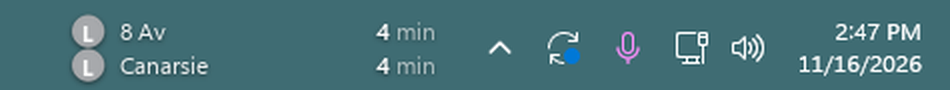
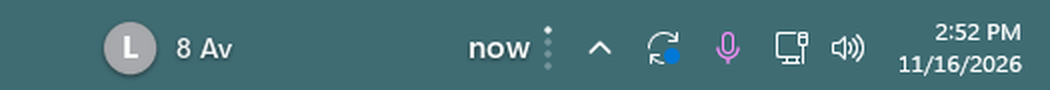
Countdown theme, settings window, centred bullet letters
- New default Countdown theme: one train at a time at full size, sliding
  to the next every few seconds, with a small pager. Click for the next
  train; pointing at it pauses the cycle.
- Settings window with every option: station, direction, theme,
  background, trains to cycle, time per train, slide animation, start
  with Windows, position and refresh.
- Bullet letters are centred on their real outline.
- More room inside and between Minimal capsules.

diff --git a/README.md b/README.md
@@ -2,9 +2,9 @@
 
 Live NYC subway arrivals on your Windows taskbar, set to look like part of Windows.
 
-![Trainbar on the Windows 11 taskbar, showing the next L trains at Bedford Av](docs/screenshot.png)
+![Trainbar on the Windows 11 taskbar, showing the next L train at Bedford Av](docs/screenshot.png)
 
-Pick your station once. Trainbar shows the next train in each direction, or the next two in one direction, with the line's bullet, where the train is headed, and how many minutes away it is. When a train is pulling in, the minutes read `now`.
+Pick your station once. Trainbar shows one train at a time at full size: the line's bullet, where the train is headed, and how many minutes away it is. Every few seconds the next train slides up into place, and small dots show where you are in the list. When a train is pulling in, the minutes read `now`.
 
 The background is transparent, so it works on the standard taskbar and on see-through taskbars from tools such as TranslucentTB. Text follows the Windows light or dark setting.
 
@@ -14,13 +14,21 @@ Right-click and open **Theme** to switch.
 
 | Theme | Look |
 | --- | --- |
-| Clock | Two lines in Segoe UI Variable, sized like the taskbar clock. The default. |
+| Countdown | One train at a time, large, sliding to the next. The default. |
+| Clock | Two lines in Segoe UI Variable, sized like the taskbar clock. |
 | LED | A dot-matrix sign with glowing dots and no box behind it. |
 | Minimal | One small capsule per train with the line and the minutes. |
 
-**Show background** adds a faint rounded backdrop behind any theme. Without it, the backdrop appears only when you point at the widget.
-
 Express trains (such as the 6 and 7 express) get a diamond instead of a circle.
+
+## Settings
+
+Right-click and select **Settings…** for every option in one window. Changes apply at once.
+
+- **Station** and **direction**. The direction buttons use the MTA's own labels for that station, such as "Manhattan" and "Canarsie".
+- **Theme** and **Show background**. Without the background, a faint backdrop appears only when you point at the widget.
+- **Countdown**: how many trains to cycle through (1 to 8), how long each one stays (2 to 30 seconds), and whether they slide. The slide also follows the Windows animation setting.
+- **Start with Windows**, **Reset position** and **Refresh now**.
 
 ## Install
 
@@ -33,19 +41,18 @@ pythonw trainbar.pyw
 
 `pythonw` runs it without a console window. On first launch a search box opens so you can choose your station.
 
-To start it with Windows, right-click the widget and tick **Start with Windows**. This copies `trainbar.pyw` to `%LOCALAPPDATA%\Trainbar` and adds an entry under `HKCU\Software\Microsoft\Windows\CurrentVersion\Run`. Untick it to remove the entry.
+To start it with Windows, turn on **Start with Windows** in Settings. This copies `trainbar.pyw` to `%LOCALAPPDATA%\Trainbar` and adds an entry under `HKCU\Software\Microsoft\Windows\CurrentVersion\Run`. Turn it off to remove the entry.
 
 ## Use
 
 | Action | What it does |
 | --- | --- |
-| Right-click | Direction, theme, station, refresh, reset position, start with Windows, quit |
-| Click | Refresh now |
+| Right-click | Direction, theme, station, settings, refresh, quit |
+| Click | Countdown: show the next train now. Other themes: refresh. |
+| Point at it | Countdown: pause on the current train |
 | Drag sideways | Move it along the taskbar (the position is remembered) |
 
 In the station search, type part of the name, a line, or both: `96 q`, `bedford l`, `jay st`. Complexes such as Times Sq / 42 St–Port Authority are one entry and show every line that stops there.
-
-The direction menu uses the MTA's own labels for that station, such as "Manhattan" and "Canarsie", instead of north and south.
 
 Trainbar hides itself while a full-screen app is in front, and it keeps itself above the taskbar.
 
@@ -66,7 +73,7 @@ If the feeds can't be reached, the widget reads "Offline". If data is more than 
 
 ## Uninstall
 
-1. Right-click the widget, untick **Start with Windows**, then select **Quit**.
+1. In Settings, turn off **Start with Windows**. Then right-click the widget and select **Quit**.
 2. Delete `%APPDATA%\Trainbar` and `%LOCALAPPDATA%\Trainbar`.
 
 ## Not affiliated
